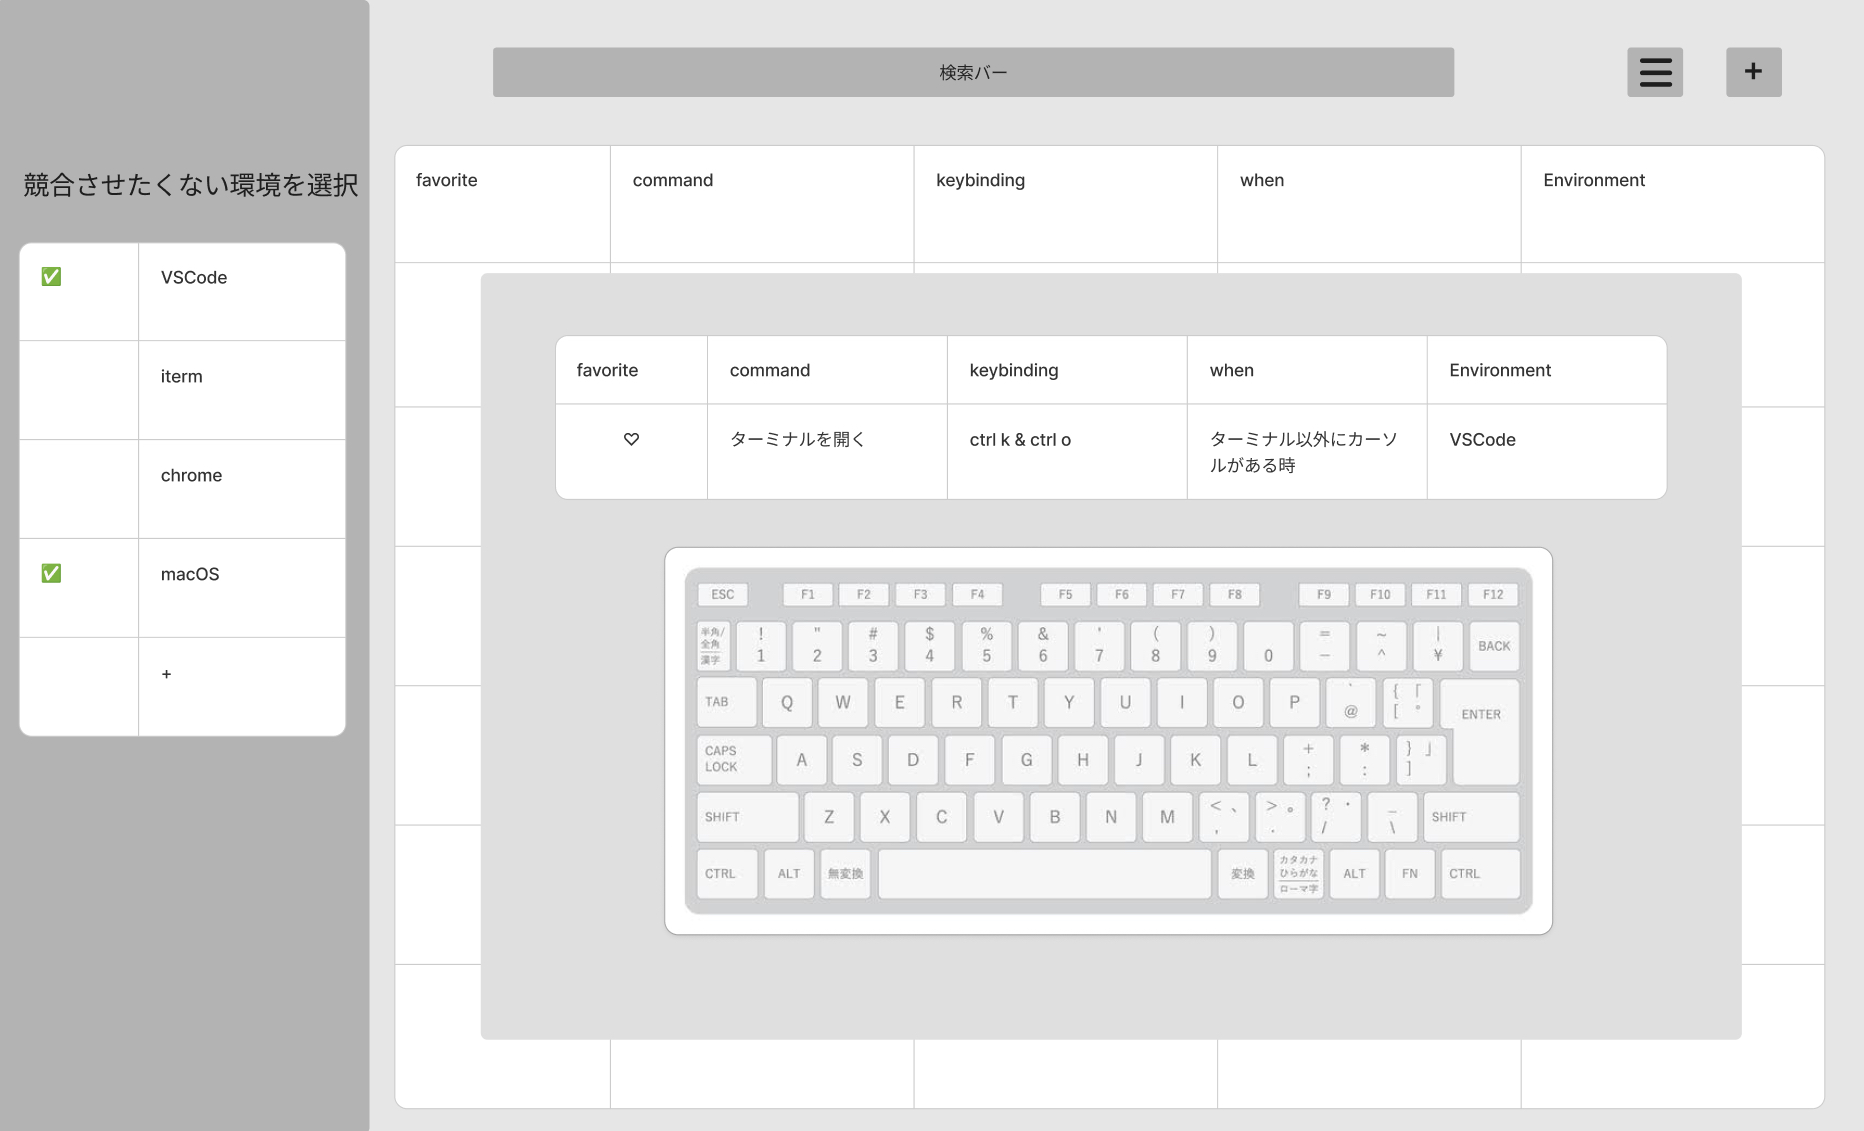
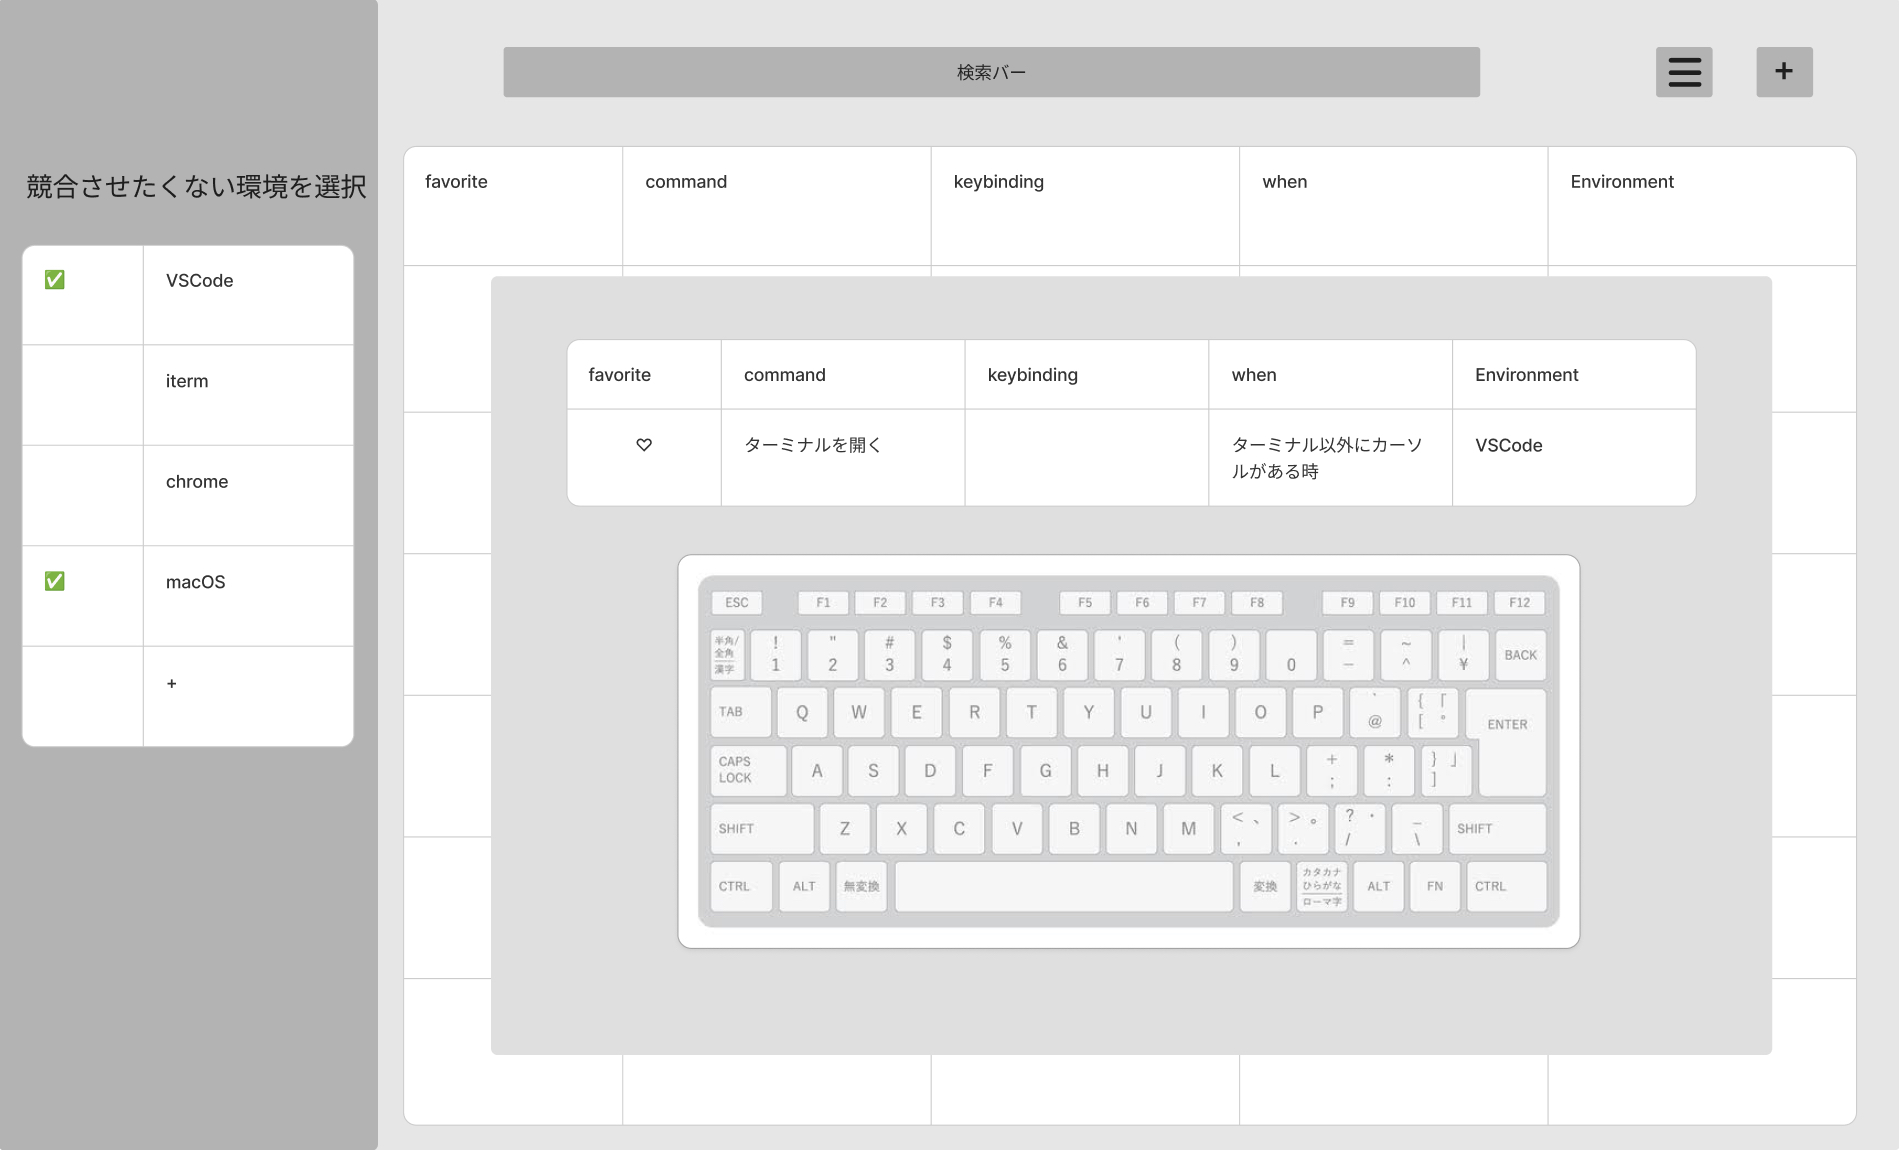
Fix README

diff --git a/README.md b/README.md
@@ -1,24 +1,26 @@
 # original product
 
 ## プロダクト概要
-ショートカット作成の時，競合を生まないショートカットを楽に探したい人のための  
+ショートカット作成時，  
+競合を生まないショートカットを楽に探したい人のための  
 shortcuts manager (仮) は  
 ショートカット管理アプリです.  
 
 これは 競合するショートカットを作成しようとしたらアラートを出す ことができ，  
 CheatSheetやKeyCueとは違って，  
-異なるプラットフォームでのショートカットの競合も検知することができます．
+異なるプラットフォームでのショートカットの競合も検知することができます．  
 例えば，システムに cmd + c (copy)が登録されているのに，ブラウザで同じキーに新しくショートカットを割り当てようとすると警告を発します．
 
 ## プロダクト詳細
 ### メイン機能 ショートカット登録
 1. ログインする
-1. サイドバーから競合させたく無い環境を選択する　　
-（例えば，VSCodeとchromeが競合しても問題ないが，  
-VSCodeとOSが競合すると問題ありなど  
+1. サイドバーからショートカットを競合させたくない環境を選択する
+（例えば，VSCodeとOSで競合を許さない．
+VSCodeとchromeは競合を許すなど．
 下の場合，VSCodeとmacOSが競合すると警告を鳴らす）
 ![main](ui_img/main0-0-1.jpg)
 1. 画面右上の十字ボタンをクリックするとモーダルウィンドウのフォームが出現する
+keybiding以外の項目を入力する
 ![modal window](ui_img/modal0-0-1.jpg)
 1. keybidingをクリックして，追加したいキーを入力する
 例えば，ctrl + 他のキー　で作成したいとき，
@@ -26,7 +28,7 @@ ctrlをしている間，下のようにカラーリングされる，
 この時，青いキーはショートカットが競合しないので
 ctrl + kを入力してreturnを押すと登録が完了する．
 tmuxなどの場合，初期状態で全てのキーにショートカットが登録されているのでお気に入り機能があると，競合が起こるが使っていないキーの黄色と，使っている赤で色分けすることができる．
-
+![color keyboad](ui_img/color_explanation.jpg)
 ### 課題
 1. 新しくショートカットを作成するとき，どこに割り当てれば競合をなくせるかを楽に知りたい．
 1. 既存のショートカット管理ツールは異なるプラットフォーム間でのショートカットを一括管理できない．(VSCode，ブラウザ，vim，OSなど)
